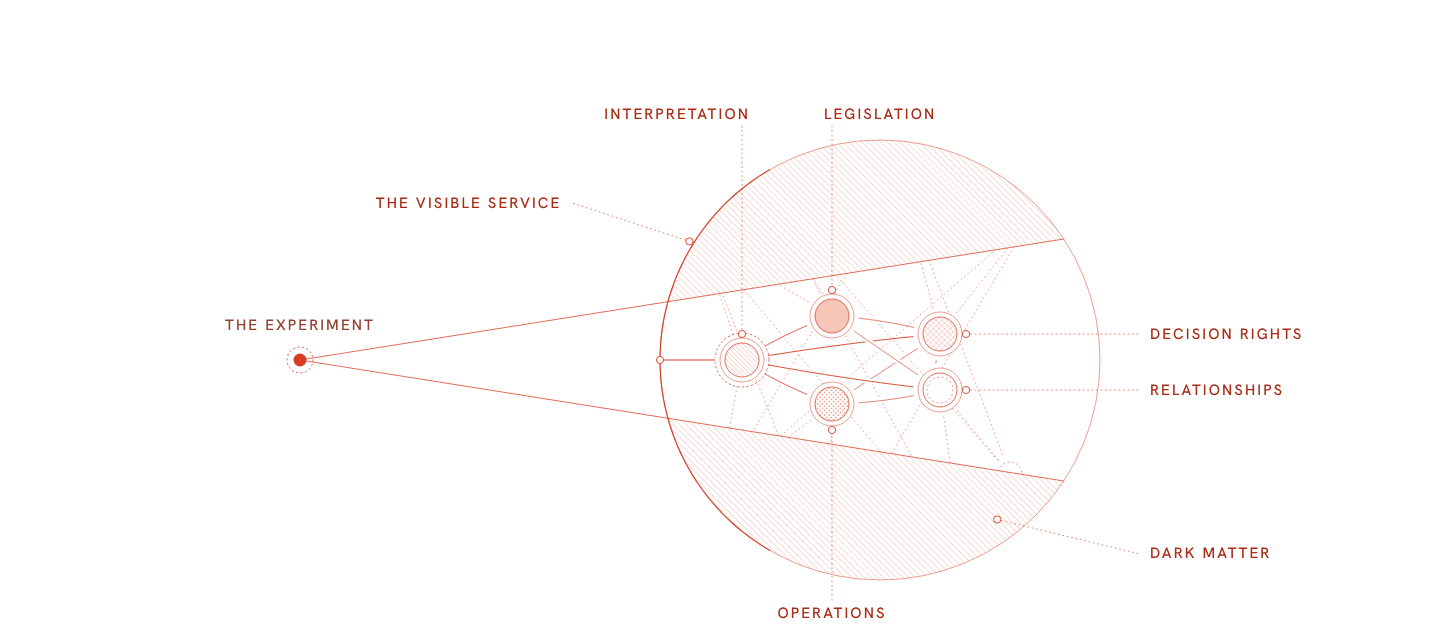
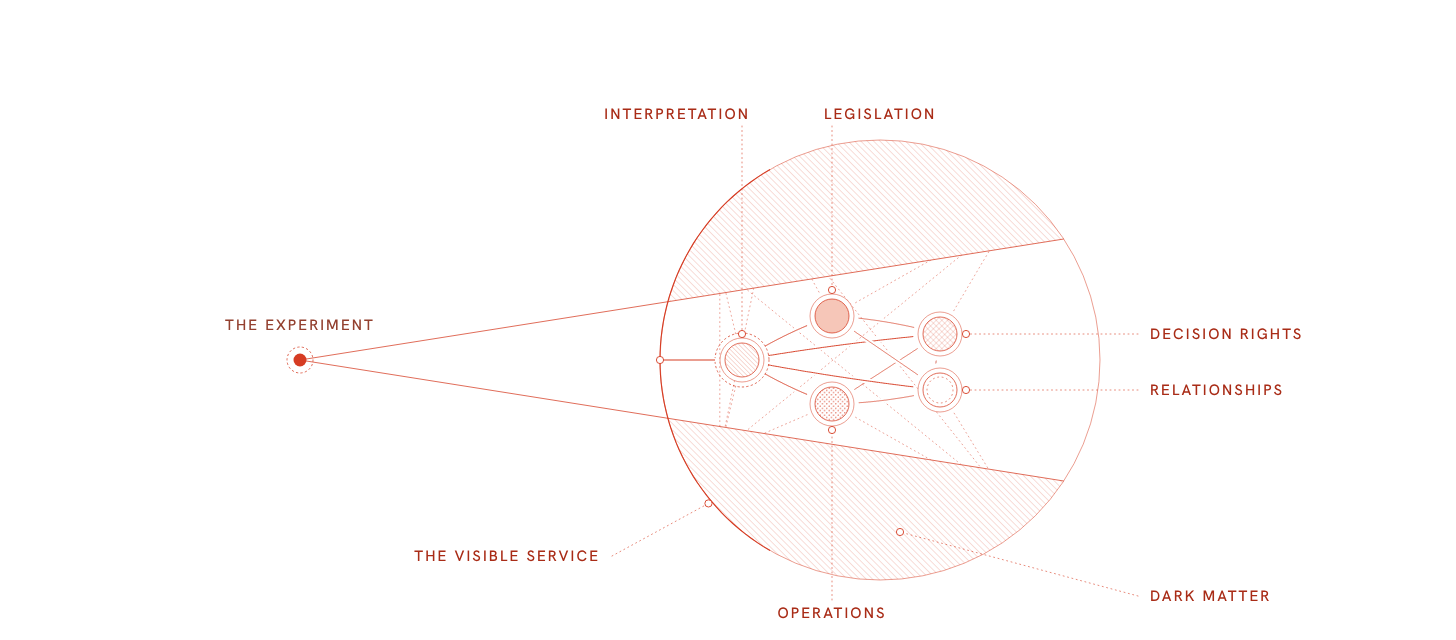
Let probe G's spotlight be widened, narrowed and aimed
Holding the light shows whatever it falls on. Aimed elsewhere it finds
contracts, funding, standards, review cycles and assurance in the dark matter,
and the materials it leaves go back into it. Play still runs the experiment
finding things, and the essay stills are unchanged. Labels for the visible
service and dark matter move to the lower half to make room.

Claude-Session: https://claude.ai/code/session_01Ed2Ec9Yoie7vScgGFT9Sup

diff --git a/prototypes/probes/illustrations.js b/prototypes/probes/illustrations.js
@@ -9,7 +9,8 @@
 //   PROBES.beneath(svg, { pull: 0.8, arrows: true })    D, reach beneath the service
 //   PROBES.rearrange(svg, { shift: 1, arrows: true })   E, rearrange the pieces
 //   PROBES.push(svg, { depth: 1 })                      F, push through the layers
-//   PROBES.reveal(svg, { reveal: 1 })                   G, bring it into view
+//   PROBES.reveal(svg, { reveal: 1 })                   G, bring it into view, as the experiment plays
+//   PROBES.reveal(svg, { width: 0.64, aim: 0 })         G, with the spotlight held, widened and aimed
 // Colours are written in, not taken from CSS, so a drawing can be lifted out as a standalone SVG.
 (function () {
   "use strict";
@@ -641,21 +642,35 @@
     ["I", "L", -6, .08, .40], ["I", "O", 6, .12, .44], ["L", "D", -6, .54, .76], ["O", "R", 6, .56, .78],
     ["I", "D", -4, .16, .50], ["O", "D", 0, .70, 1], ["L", "R", 0, .66, .95], ["I", "R", 4, .20, .52], ["D", "R", 8, .62, .86]
   ];
-  // the rest of the system, in the dark: materials, and connections that only show where they cross the light
-  var BEYOND = [[700, 238], [772, 202], [900, 184], [1030, 220], [1010, 474], [962, 548], [828, 560], [718, 490]];
-  var BEYOND_TIES = [[0, 6], [1, 5], [2, 7], [3, 6], [2, 4], [1, 4], [0, 5], [3, 7],
-    ["L", 1], ["L", 0], ["O", 7], ["O", 6], ["D", 2], ["D", 3], ["R", 5], ["R", 4], ["I", 0], ["I", 7]];
+  // the rest of the system, in the dark, set round the rim so a held light can find them: materials,
+  // and connections that only show where they cross the light
+  var BEYOND_MATERIALS = [
+    { name: "Contracts", fill: "cross", deg: -150, r: 185 }, { name: "Funding", fill: "stipple", deg: -125, r: 190 },
+    { name: "Standards", fill: "hatch", deg: -48, r: 195 }, { name: "Review cycles", fill: "blank", deg: 48, r: 195 },
+    { name: "Assurance", fill: "tint", deg: 150, r: 185 }
+  ];
+  var BEYOND = BEYOND_MATERIALS.map(function (m) { return [880 + m.r * Math.cos(m.deg * Math.PI / 180), 360 + m.r * Math.sin(m.deg * Math.PI / 180)]; });
+  var BEYOND_TIES = [[0, 4], [1, 3], [2, 4], [0, 3], [1, 4],
+    ["I", 0], ["I", 4], ["L", 1], ["L", 2], ["D", 2], ["R", 3], ["O", 4], ["O", 3]];
+  // Two ways to draw it. { reveal } plays the experiment finding things, for the essay's stills.
+  // { width, aim } is a spotlight to hold: widen, narrow or aim it, and whatever it falls on shows.
   function reveal(svg, opts) {
-    var r = opts && opts.reveal != null ? opts.reveal : 1;
+    var spot = !!(opts && opts.width != null);
+    var r = spot ? 1 : opts && opts.reveal != null ? opts.reveal : 1;
     var url = start(svg, "rv", "The whole system as a circle, its near edge the visible service. A spotlight shines from an experiment through it to the far side, and five materials and the relationships between them come into view, with more connections showing where they cross the light. Hatching covers the rest, the service's dark matter, where whatever else there is stays hidden");
     var SX = 880, SY = 360, SR = 220, NR = 17;
     function clamp(v) { return Math.max(0, Math.min(1, v)); }
     // the spotlight shines from the experiment, widening and reaching further as it looks
-    var ax = 300, ay = SY, k = Math.pow(clamp(r / 0.45), 0.8);
-    var half = (2 + 7 * k) * Math.PI / 180, reach = 470 + 400 * k * k;
-    var ex = ax + reach * Math.cos(half), ey = reach * Math.sin(half);
-    var beam = "M" + ax + " " + ay + " L " + ex.toFixed(1) + " " + (ay - ey).toFixed(1) + " A " + reach + " " + reach + " 0 0 1 " + ex.toFixed(1) + " " + (ay + ey).toFixed(1) + " Z";
+    var ax = 300, ay = SY, k = Math.pow(clamp(r / 0.45), 0.8), RAD = Math.PI / 180;
+    var half = (2 + 7 * k) * RAD, reach = 470 + 400 * k * k, aim = 0;
+    if (spot) { half = (2 + 11 * clamp(opts.width)) * RAD; aim = Math.max(-1, Math.min(1, opts.aim || 0)) * 12 * RAD; reach = 1000; }
+    function ray(a, d) { return [ax + d * Math.cos(aim + a), ay + d * Math.sin(aim + a)]; }
+    var e1 = ray(-half, reach), e2 = ray(half, reach);
+    var beam = "M" + ax + " " + ay + " L " + e1[0].toFixed(1) + " " + e1[1].toFixed(1) + " A " + reach + " " + reach + " 0 0 1 " + e2[0].toFixed(1) + " " + e2[1].toFixed(1) + " Z";
+    // in the light: the centre of a thing falls inside the beam
+    function lit(p) { return Math.abs(Math.atan2(p[1] - ay, p[0] - ax) - aim) < half; }
     function shown(id) {
+      if (spot) return lit(pos(id)) ? 1 : 0;
       if (id === "I") return clamp(r / 0.05);
       var v = 0;
       TIES.forEach(function (t) { if (t[1] === id) v = Math.max(v, clamp((r - t[4] + 0.04) / 0.04)); });
@@ -684,19 +699,19 @@
     var dark = el("g", { "clip-path": "url(#rv-sys)" }, svg);
     el("path", { d: "M0 0 H" + W + " V" + H + " H0 Z " + beam, "fill-rule": "evenodd", fill: "url(#rv-out)" }, dark);
     // how far the light reaches, while it still stops short of the far side
-    if (ax + reach < SX + SR) el("path", Object.assign({ d: "M" + ex.toFixed(1) + " " + (ay - ey).toFixed(1) + " A " + reach + " " + reach + " 0 0 1 " + ex.toFixed(1) + " " + (ay + ey).toFixed(1) }, faint), dark);
+    if (ax + reach < SX + SR) el("path", Object.assign({ d: "M" + e1[0].toFixed(1) + " " + e1[1].toFixed(1) + " A " + reach + " " + reach + " 0 0 1 " + e2[0].toFixed(1) + " " + e2[1].toFixed(1) }, faint), dark);
     el("circle", { cx: SX, cy: SY, r: SR, fill: "none", stroke: INK, "stroke-width": .5 }, svg);
 
     // in the light
     var g = el("g", {}, svg);
     el("clipPath", { id: "rv-win" }, defs).appendChild(el("path", { d: beam }));
     g.setAttribute("clip-path", "url(#rv-win)");
-    BEYOND.forEach(function (p) { el("circle", Object.assign({ cx: p[0], cy: p[1], r: 12 }, faint), g); });
+    if (!spot) BEYOND.forEach(function (p) { el("circle", Object.assign({ cx: p[0], cy: p[1], r: 12 }, faint), g); });
     BEYOND_TIES.forEach(function (t) {
       var a = typeof t[0] === "number" ? BEYOND[t[0]] : pos(t[0]);
       el("path", Object.assign({ d: line(curve(a, BEYOND[t[1]], 0, typeof t[0] === "number" ? 18 : NR + 10, 18)) }, faint, { opacity: .8 }), g);
     });
-    Object.keys(NODES).forEach(function (id) {
+    if (!spot) Object.keys(NODES).forEach(function (id) {
       if (shown(id) < 1) el("circle", Object.assign({ cx: NODES[id].x, cy: NODES[id].y, r: NR }, faint, { opacity: .5 }), g);
     });
     TIES.forEach(function (t) {
@@ -718,19 +733,25 @@
       textured(ng, url, { d: circ(n.x, n.y, NR) }, n);
       if (n.fill === "blank") el("circle", Object.assign({ cx: n.x, cy: n.y, r: NR - 4 }, faint), ng);
     });
+    // with the spotlight held, the dark matter has materials in it too, and they show when lit
+    if (spot) BEYOND.forEach(function (p, i) {
+      var m = BEYOND_MATERIALS[i];
+      el("circle", { cx: p[0], cy: p[1], r: NR + 5, fill: PAPER, stroke: INK, "stroke-width": .5 }, g);
+      textured(g, url, { d: circ(p[0], p[1], NR) }, m);
+      if (m.fill === "blank") el("circle", Object.assign({ cx: p[0], cy: p[1], r: NR - 4 }, faint), g);
+    });
 
     // the edges of the light, from the experiment to where they leave the system
     [-1, 1].forEach(function (sd) {
-      var ux = Math.cos(half), uy = sd * Math.sin(half), dx = ax - SX, dy = ay - SY, bb = dx * ux + dy * uy;
+      var ux = Math.cos(aim + sd * half), uy = Math.sin(aim + sd * half), dx = ax - SX, dy = ay - SY, bb = dx * ux + dy * uy;
       var e = Math.min(reach, -bb + Math.sqrt(bb * bb - (dx * dx + dy * dy - SR * SR)));
       el("path", { d: line([[ax, ay], [ax + ux * e, ay + uy * e]]), stroke: INK, "stroke-width": .75, fill: "none" }, svg);
     });
     // the experiment, through the visible service, to what it touches
     var sx = SX - SR, ring = NR + 10, near = NODES.I.x - ring;
-    if (r > 0.03) el("circle", { cx: NODES.I.x, cy: NODES.I.y, r: ring, fill: "none", stroke: INK, "stroke-width": .75, "stroke-dasharray": "1.5 3", "stroke-linecap": "round", opacity: clamp(r / 0.05) }, svg);
+    if (!spot && r > 0.03) el("circle", { cx: NODES.I.x, cy: NODES.I.y, r: ring, fill: "none", stroke: INK, "stroke-width": .75, "stroke-dasharray": "1.5 3", "stroke-linecap": "round", opacity: clamp(r / 0.05) }, svg);
     var shaft = line([[sx, SY], [sx + (near - sx) * clamp(r / 0.05), SY]]);
-    halo(svg, shaft, 4);
-    el("path", { d: shaft, stroke: INK, "stroke-width": 1.1, fill: "none" }, svg);
+    if (!spot) { halo(svg, shaft, 4); el("path", { d: shaft, stroke: INK, "stroke-width": 1.1, fill: "none" }, svg); }
     // the edge of the system facing the experiment is the visible service
     var arc = []; for (var d = 120; d <= 240.1; d += 2) arc.push(onRim(d));
     el("path", { d: line(arc), stroke: INK, "stroke-width": 1.1, fill: "none" }, svg);
@@ -739,9 +760,9 @@
     label(svg, "The experiment", ax, ay - 30, "middle", true);
 
     // labels sit outside the system, on leaders, the way the navigation model labels its rings
-    var vs = onRim(212);
-    leader(svg, vs[0] - 120, vs[1] - 40, vs[0] - 4, vs[1] - 2);
-    label(svg, "The visible service", vs[0] - 132, vs[1] - 35, "end");
+    var vs = onRim(140);
+    leader(svg, 612, 556, vs[0] - 3, vs[1] + 2);
+    label(svg, "The visible service", 600, 561, "end");
     var TOP = SY - SR - 26, BOT = SY + SR + 38, RX = SX + SR + 50;
     var place = {
       I: function (n) { leader(svg, n.x, TOP + 12, n.x, n.y - NR - 9); return [n.x + 8, TOP + 5, "end"]; },
@@ -755,9 +776,15 @@
       var at = place[id](NODES[id]);
       label(svg, NODES[id].name, at[0], at[1], at[2]);
     });
-    var dm = onRim(48);
-    leader(svg, RX - 12, dm[1] + 30, dm[0] - 30, dm[1] - 4);
-    label(svg, "Dark matter", RX, dm[1] + 35, "start");
+    if (spot) BEYOND.forEach(function (p, i) {
+      if (!lit(p)) return;
+      var dx = p[0] - SX, dy = p[1] - SY, dl = Math.hypot(dx, dy), ux = dx / dl, uy = dy / dl;
+      var lx = SX + ux * (SR + 22), ly = SY + uy * (SR + 22);
+      var t = label(svg, BEYOND_MATERIALS[i].name, lx, ly + 5 + uy * 8, ux > 0 ? "start" : "end");
+      t.setAttribute("stroke", PAPER); t.setAttribute("stroke-width", 6); t.setAttribute("paint-order", "stroke"); t.setAttribute("stroke-linejoin", "round");
+    });
+    leader(svg, RX - 12, 596, 900, 532);
+    label(svg, "Dark matter", RX, 601, "start");
   }
 
   window.PROBES = { reveal: reveal, weave: weave, weaveBeforeAfter: weaveBeforeAfter, beneath: beneath, rearrange: rearrange, push: push, mobile: mobile, treacle: treacle, size: { width: W, height: H } };

diff --git a/prototypes/probes/index.html b/prototypes/probes/index.html
@@ -243,13 +243,14 @@
     <p class="says">A small intervention brings existing arrangements into view. The connections between materials matter as much as the materials themselves.</p>
     <div class="frame"><svg id="svg-g" role="img" aria-label="An experiment on the left shines a spotlight across into a circle, the whole system, whose near edge is the visible service. The light reaches the far side. In it, interpretation, legislation, operations, decision rights and relationships, each joined to the others by a fine line, with more dotted connections showing wherever they cross the light. The rest of the circle is hatched and labelled dark matter, and nothing in it can be seen."></svg></div>
     <div class="controls">
-      <label for="seen">Into view <input type="range" id="seen" min="0" max="1" step="0.01" value="1"></label>
+      <label for="light">Width of the light <input type="range" id="light" min="0" max="1" step="0.01" value="0.64"></label>
+      <label for="aim">Aim <input type="range" id="aim" min="-1" max="1" step="0.01" value="0"></label>
       <button type="button" class="t" id="play-g">Play the experiment</button>
     </div>
     <div class="notes">
       <div>
         <h3>What it shows</h3>
-        <p>The whole system is a circle, and its top edge is the visible service. From the experiment, a spotlight shines across through the visible service, widening and reaching further as more comes into view until it reaches the far side. In the light, it touches one material, the relationships draw out one at a time, and the materials at their ends appear, passing over and under each other where they cross. Everything outside the light is hatched, the service's dark matter, and stays hidden. Other connections show only where they cross the light, as dotted lines, so the slice reads as a slice of something much more connected.</p>
+        <p>The whole system is a circle, and the edge facing the experiment is the visible service. From the experiment, a spotlight shines across into the system. In the light, it touches one material, the relationships draw out one at a time, and the materials at their ends appear, passing over and under each other where they cross. Everything outside the light is hatched, the service's dark matter, and stays hidden. Other connections show only where they cross the light, as dotted lines, so the slice reads as a slice of something much more connected. Widen, narrow or aim the light and other materials come out of the dark, contracts, funding, standards, review cycles and assurance, while the ones it leaves go back into it.</p>
       </div>
       <div>
         <h3>What it loses</h3>
@@ -300,17 +301,21 @@
   reach.addEventListener("input", drawD); dArrows.addEventListener("change", drawD);
   shift.addEventListener("input", drawE); eArrows.addEventListener("change", drawE);
   depth.addEventListener("input", drawF);
-  // G plays from nothing to everything in view, about four seconds
-  var seen = document.getElementById("seen"), gAnim = null;
-  function drawG() { P.reveal(svgG, { reveal: +seen.value }); }
-  seen.addEventListener("input", function () { cancelAnimationFrame(gAnim); drawG(); });
+  // G opens on the essay's still. Widen, narrow or aim the light and whatever it falls on shows;
+  // play runs the experiment finding things, from nothing to everything in view, about four seconds.
+  var light = document.getElementById("light"), aim = document.getElementById("aim"), gAnim = null;
+  function drawG(v) { P.reveal(svgG, v == null ? { reveal: 1 } : { reveal: v }); }
+  function holdG() { cancelAnimationFrame(gAnim); P.reveal(svgG, { width: +light.value, aim: +aim.value }); }
+  light.addEventListener("input", holdG);
+  aim.addEventListener("input", holdG);
   document.getElementById("play-g").addEventListener("click", function () {
     cancelAnimationFrame(gAnim);
-    if (reduced) { seen.value = 1; drawG(); return; }
+    light.value = 0.64; aim.value = 0;
+    if (reduced) { drawG(1); return; }
     var t0 = performance.now();
     (function step(now) {
       var v = Math.min(1, (now - t0) / 4200);
-      seen.value = v; drawG();
+      drawG(v);
       if (v < 1) gAnim = requestAnimationFrame(step);
     })(t0);
   });

diff --git a/prototypes/probes/capture.js b/prototypes/probes/capture.js
@@ -11,7 +11,8 @@ const out = process.argv[2] || __dirname;
 const SHOTS = [['svg-a', 'probe-a-weave'], ['svg-a-arrows', 'probe-a-weave-arrows'], ['svg-a-ba', 'probe-a-weave-before-after'], ['svg-b', 'probe-b-mobile'], ['svg-c', 'probe-c-treacle'],
   ['svg-d', 'probe-d-beneath'], ['svg-d', 'probe-d-beneath-arrows', "document.getElementById('d-arrows').click()"],
   ['svg-e', 'probe-e-rearrange'], ['svg-f', 'probe-f-push'],
-  ['svg-g', 'probe-g-reveal'], ['svg-g', 'probe-g-reveal-partway', "(function () { var r = document.getElementById('seen'); r.value = 0.38; r.dispatchEvent(new Event('input')); })()"]];
+  ['svg-g', 'probe-g-reveal', "PROBES.reveal(document.getElementById('svg-g'), { reveal: 1 })"],
+  ['svg-g', 'probe-g-reveal-partway', "PROBES.reveal(document.getElementById('svg-g'), { reveal: 0.38 })"]];
 (async () => {
   const exe = fs.existsSync('/opt/pw-browsers/chromium') ? '/opt/pw-browsers/chromium' : undefined;
   const b = await chromium.launch({ executablePath: exe });

diff --git a/prototypes/README.md b/prototypes/README.md
@@ -12,7 +12,7 @@ Only this folder is published, by `.github/workflows/pages.yml`, on any push to 
 
 **[place/](place/)** goes with the same essay's "Experimentation as architecture" section, and is built like the navigation prototype: one page that draws the stack in code from a projection, in the same two tones, line weights and type, so it can turn later without a redraw. It opens on the organisation alone (labels on the left as in the thesis original, one emphasis on the place of work) and switches to side by side with the thesis neighbourhood (after Pagh & Cook 2023), where nature becomes culture and the neighbourhood scale becomes the place of work. The copy sits at the top of the page's script, so labels are easy to swap. `capture.js` exports the essay images from the page: `place-diagram-single`, `place-diagram` and `place-diagram-mobile`, each as a 1456 px PNG and an editable SVG. `alt.txt` holds the alt text. [v0.1.0](place/v0.1.0/) keeps the first, black-line version.
 
-**[probes/](probes/)** is a working page comparing seven directions for one small editorial illustration in the treacle essay's "Experimentation as probes" movement: A, a woven cloth of materials with one thread pulled; B, a hanging mobile rebalanced by a small weight, with legislation on a fixed joint; C, a probe's path through a stippled field that thickens, going round neat rings and through tangles; D, an experiment reaching beneath the surface of a service and lifting one thread of the materials stitched together underneath; E, materials as pieces in rows, two swapped in two rows so the gaps line up into a route; F, a probe pushed down through sticky layers until legislation holds. G, after a sketch, the whole system as a circle whose top edge is the visible service, with a spotlight shining across it from an experiment to the far side, the materials and the fine lines between them coming into view in the light one relationship at a time, other connections showing only where they cross the light, and the rest hatched as the service's dark matter, where everything stays hidden. Each has a control to play with and a note on what it shows and what it loses, and the page ends with a comparison. The drawings come from `illustrations.js`, and `capture.js` exports each as a 1456 x 640 PNG and a standalone SVG for the essay. A also comes as two stills that show the movement without a slider, one with arrows in the gaps of the cloth for which way each part moved, and one before and after with the arrows on the second. None of them is in the essay yet.
+**[probes/](probes/)** is a working page comparing seven directions for one small editorial illustration in the treacle essay's "Experimentation as probes" movement: A, a woven cloth of materials with one thread pulled; B, a hanging mobile rebalanced by a small weight, with legislation on a fixed joint; C, a probe's path through a stippled field that thickens, going round neat rings and through tangles; D, an experiment reaching beneath the surface of a service and lifting one thread of the materials stitched together underneath; E, materials as pieces in rows, two swapped in two rows so the gaps line up into a route; F, a probe pushed down through sticky layers until legislation holds. G, after a sketch, the whole system as a circle whose top edge is the visible service, with a spotlight shining across it from an experiment to the far side, the materials and the fine lines between them coming into view in the light one relationship at a time, other connections showing only where they cross the light, and the rest hatched as the service's dark matter, where everything stays hidden. On the page the light can be widened, narrowed and aimed, bringing other materials out of the dark and letting others go back into it. Each has a control to play with and a note on what it shows and what it loses, and the page ends with a comparison. The drawings come from `illustrations.js`, and `capture.js` exports each as a 1456 x 640 PNG and a standalone SVG for the essay. A also comes as two stills that show the movement without a slider, one with arrows in the gaps of the cloth for which way each part moved, and one before and after with the arrows on the second. None of them is in the essay yet.
 
 ## Rules
 
